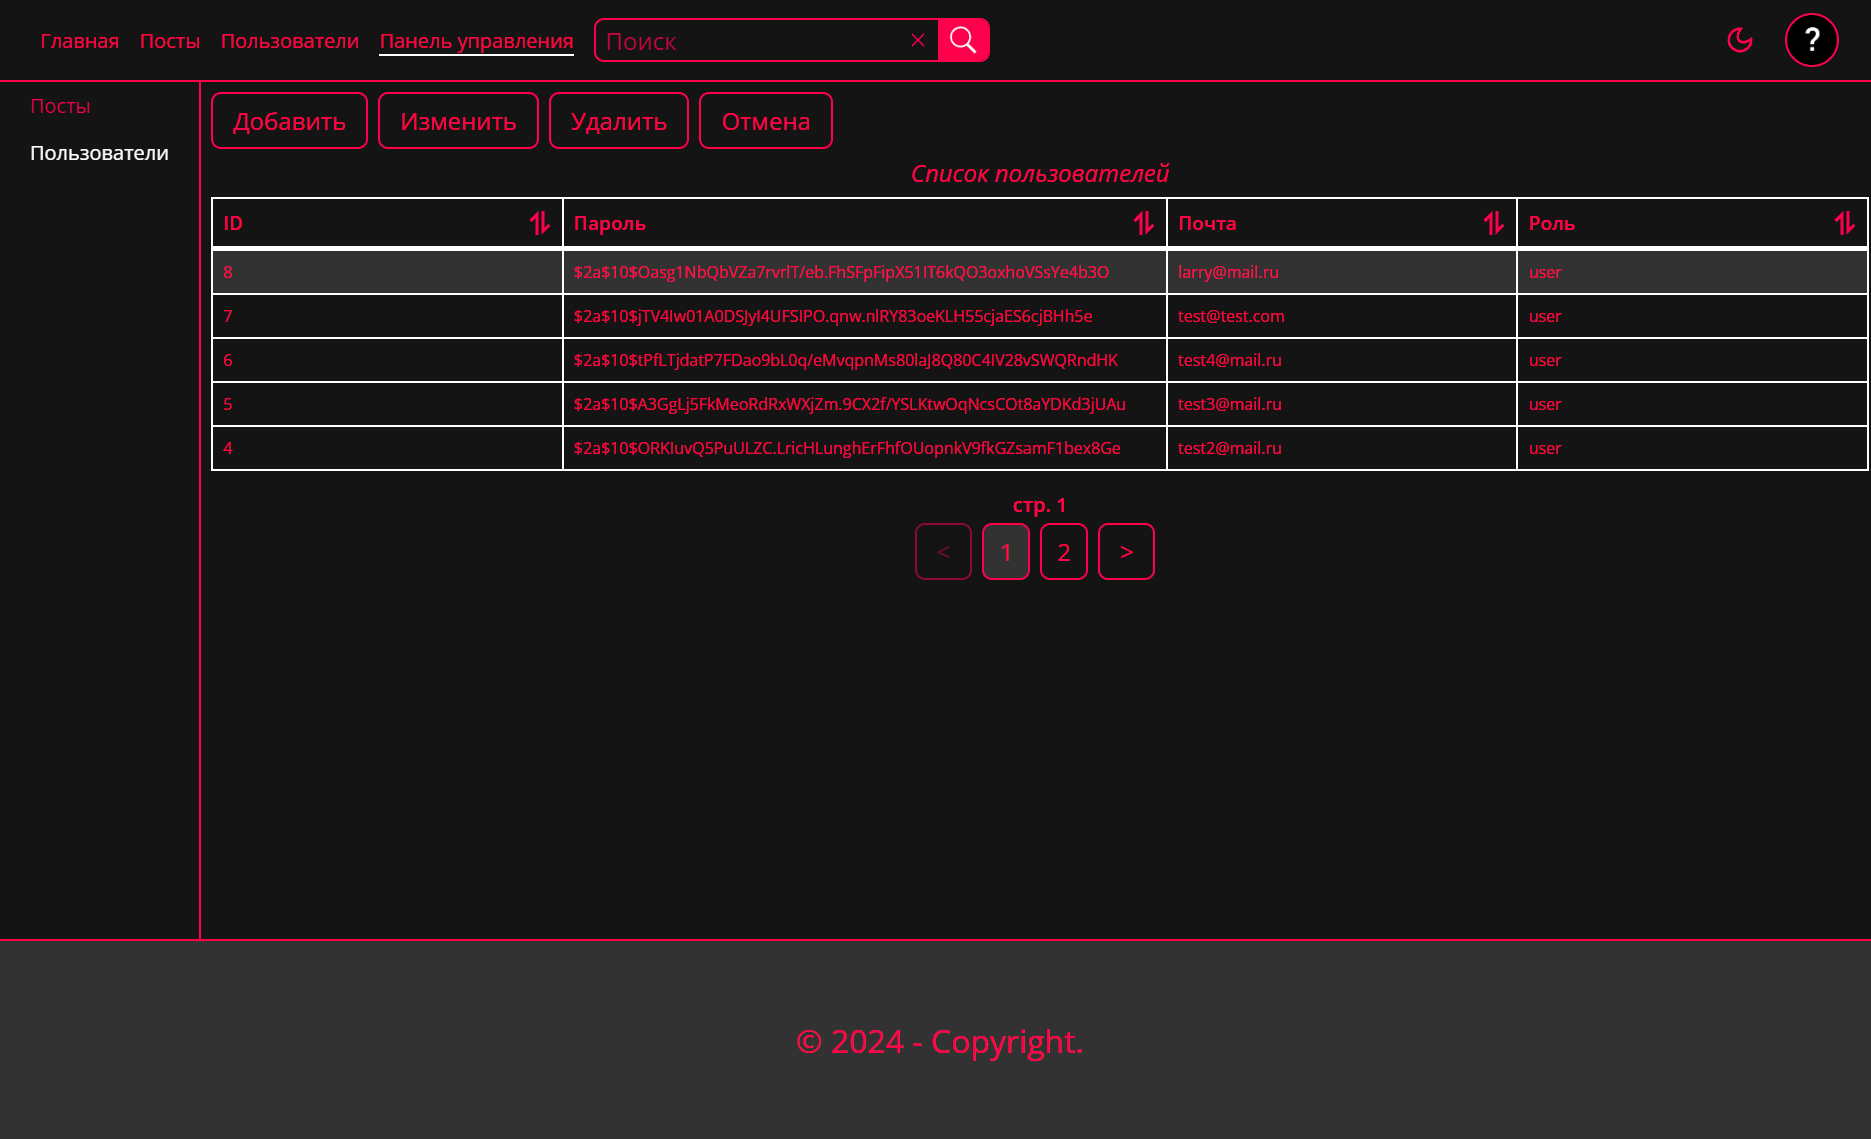
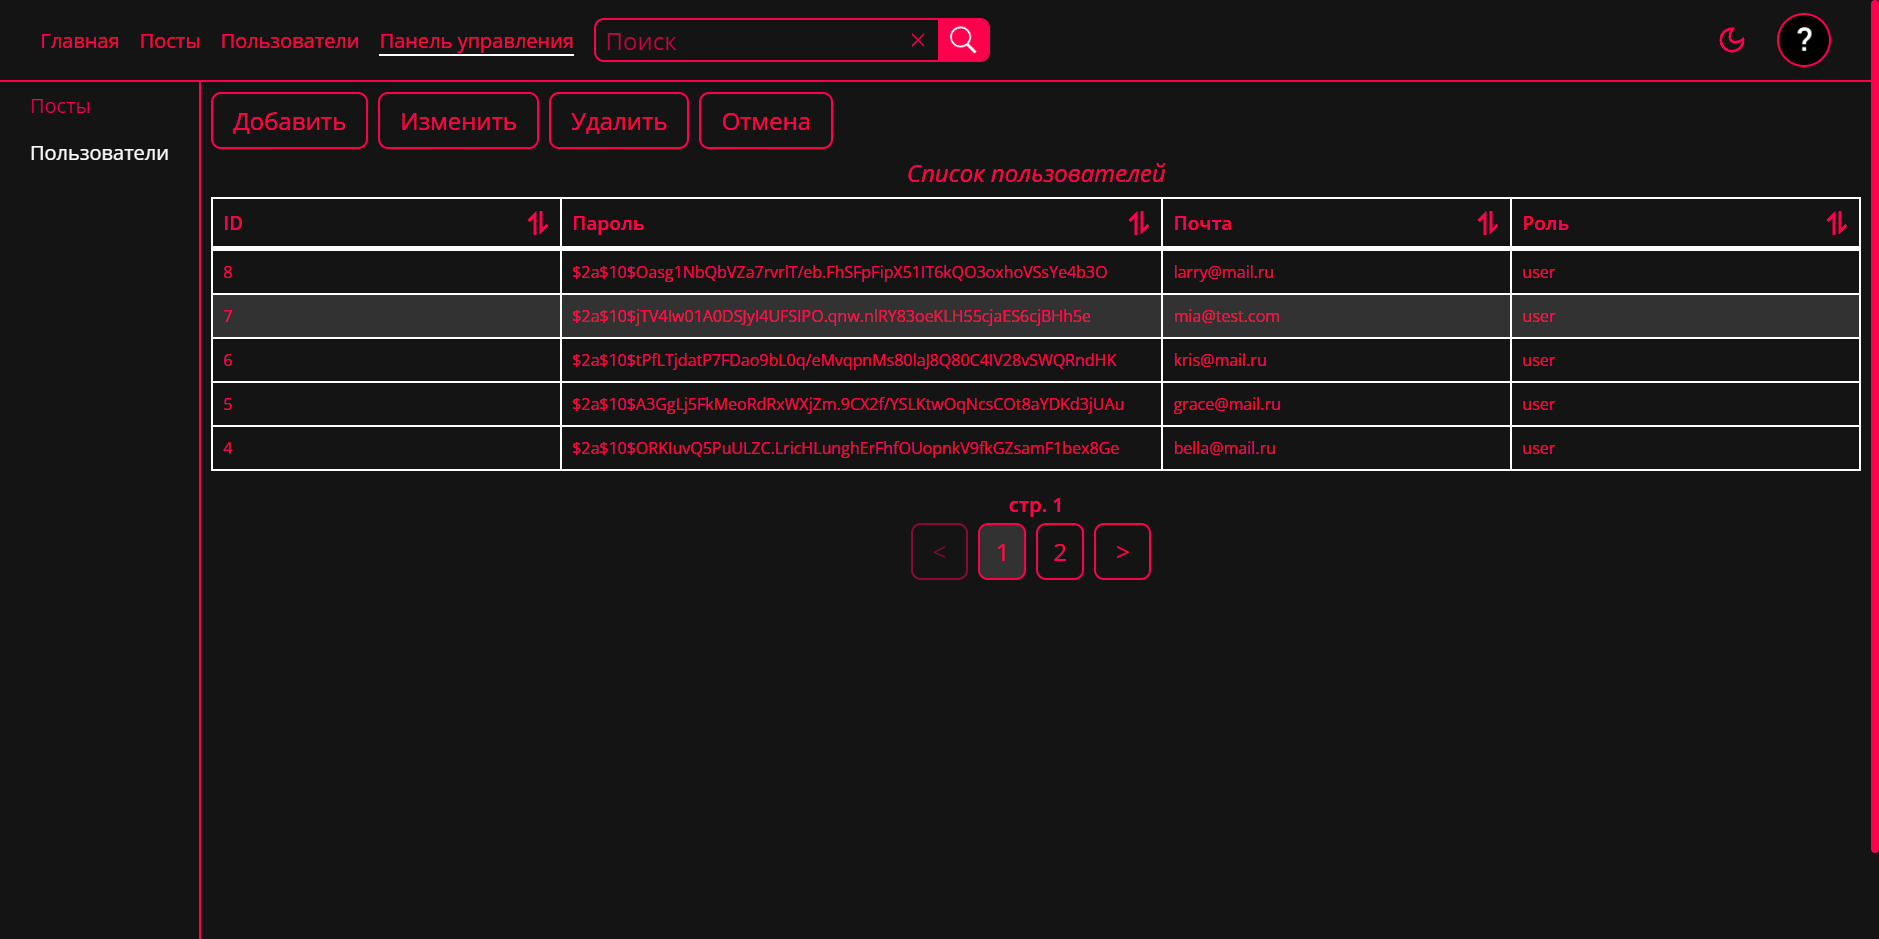
screenshots update

diff --git a/src/layout/Layout/Footer/Footer.module.scss b/src/layout/Layout/Footer/Footer.module.scss
@@ -3,7 +3,7 @@
    align-items: center;
    justify-content: center;
    box-sizing: border-box;
-   min-height: 200px;
+   padding-block: 25px;
    border-top: var(--border);
    background: var(--footerBg);
    font-size: 2rem;
